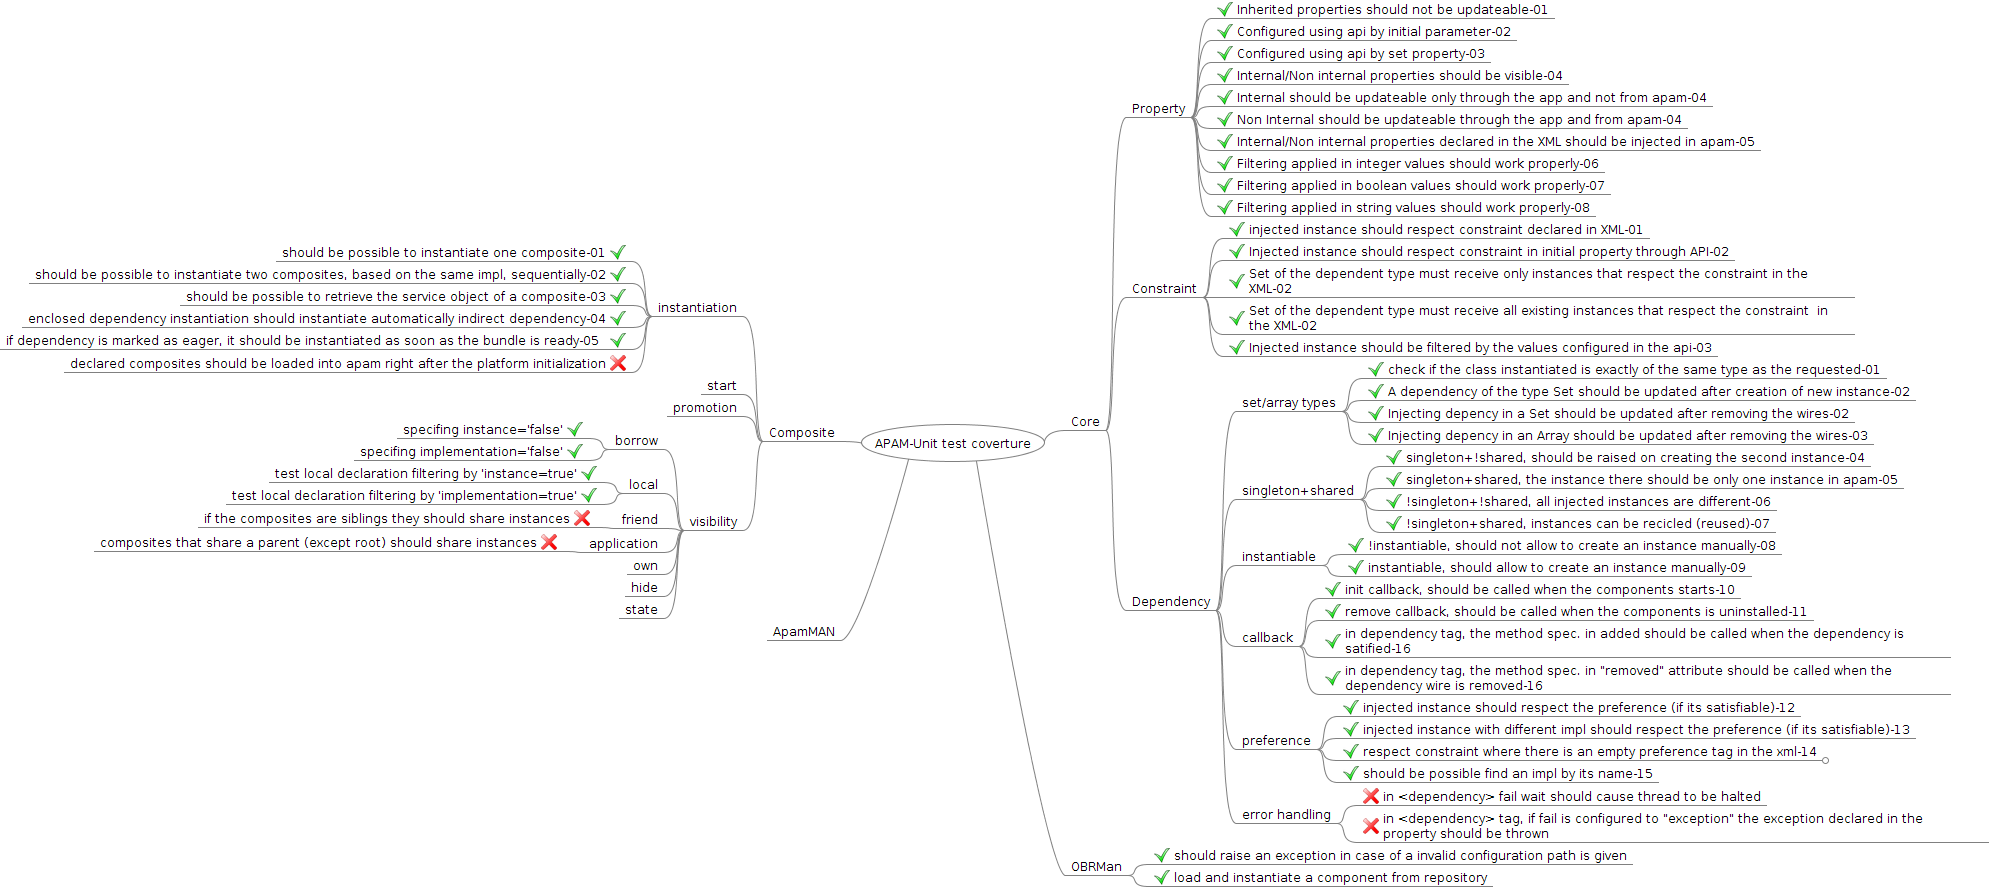
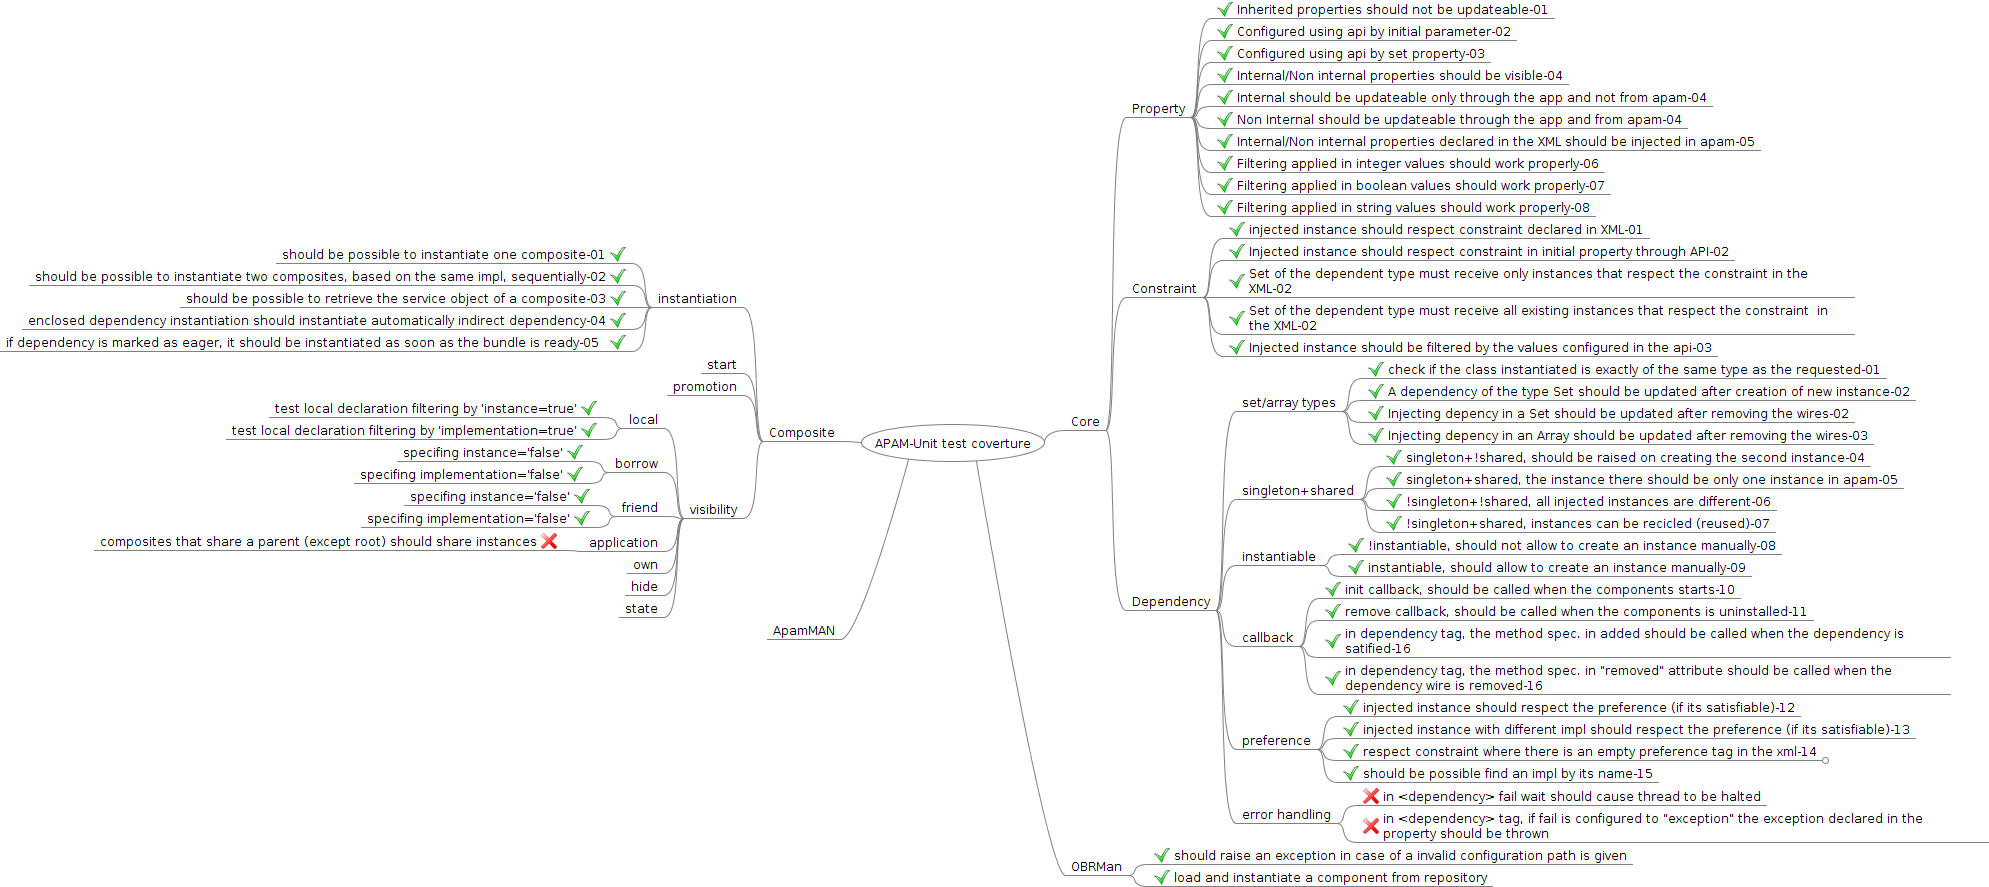
adding test for the friend relation into composite visibility

Changed region(s): [[0.0623, 0.3957, 0.3741, 0.7001], [0.0, 0.274, 0.3741, 0.4262], [0.3741, 0.7001, 0.4364, 0.7306]]

diff --git a/tests/services/pax-test/src/test/java/fr/imag/adele/apam/test/testcases/CompositeTest.java b/tests/services/pax-test/src/test/java/fr/imag/adele/apam/test/testcases/CompositeTest.java
@@ -168,7 +168,7 @@ public class CompositeTest extends ExtensionAbstract {
 				"If an X instance is created into A and this instance is marked as local, this instance cannot be used by other composite. %s";
 		
 		CompositeType cta = (CompositeType) CST.apamResolver.findImplByName(
-				null, "composite-a");
+				null, "composite-a-local-instance");
 
 		CompositeType ctb = (CompositeType) CST.apamResolver.findImplByName(
 				null, "composite-b");
@@ -307,5 +307,89 @@ public class CompositeTest extends ExtensionAbstract {
 		Assert.assertTrue(message,ga.getElement() != gb.getElement());
 
 	}
+
+	@Test
+	public void CompositeContentMngtFriendNothingImplementation() {
+
+		CompositeType ctroot = (CompositeType) CST.apamResolver.findImplByName(
+				null, "composite-a");
+		
+		CompositeType cta = (CompositeType) CST.apamResolver.findImplByName(
+				null, "composite-a-friend-nothing-implementation");
+
+		CompositeType ctb = (CompositeType) CST.apamResolver.findImplByName(
+				null, "composite-b");
+		
+		Implementation ia=CST.apamResolver.findImplByName(null, "group-a");
+		
+		Composite composite_root = (Composite) ctroot.createInstance(null, null);
+		Composite composite_a = (Composite) cta.createInstance(composite_root, null);
+		Composite composite_b = (Composite) ctb.createInstance(composite_root, null);
+
+		Instance instanceFriend1=ia.createInstance(composite_a, null);
+		
+		Instance instanceFriend2=ia.createInstance(composite_b, null);
+
+		S3GroupAImpl ga1 = (S3GroupAImpl) instanceFriend1.getServiceObject();
+
+		S3GroupAImpl ga2 = (S3GroupAImpl) instanceFriend2.getServiceObject();
+
+		ga1.getElement();
+		
+		auxListInstances("bbbbbbbbbbbbbbbbbbbbbbbb");
+		
+		ga2.getElement();
+
+		auxListInstances("aaaaaaaaaaaaaaaaaaaaaaaa");
+		
+		String messageTemplate = "An instance belonging to a composite that do not export any implementation to friends (<friend implementation=\"false\" />), should not be visible (used/injected) by another composite, even if they are friends. %s";
+
+		String message=String.format(messageTemplate, "Although the instance was injeted externally into their friends.");
+		
+		Assert.assertTrue(message,ga1.getElement() != ga2.getElement());
+
+	}
+	
+	@Test
+	public void CompositeContentMngtFriendNothingInstance() {
+
+		CompositeType ctroot = (CompositeType) CST.apamResolver.findImplByName(
+				null, "composite-a");
+		
+		CompositeType cta = (CompositeType) CST.apamResolver.findImplByName(
+				null, "composite-a-friend-nothing-instance");
+
+		CompositeType ctb = (CompositeType) CST.apamResolver.findImplByName(
+				null, "composite-b");
+		
+		Implementation ia=CST.apamResolver.findImplByName(null, "group-a");
+		
+		Composite composite_root = (Composite) ctroot.createInstance(null, null);
+		Composite composite_a = (Composite) cta.createInstance(composite_root, null);
+		Composite composite_b = (Composite) ctb.createInstance(composite_root, null);
+
+		Instance instanceFriend1=ia.createInstance(composite_a, null);
+		
+		Instance instanceFriend2=ia.createInstance(composite_b, null);
+
+		S3GroupAImpl ga1 = (S3GroupAImpl) instanceFriend1.getServiceObject();
+
+		S3GroupAImpl ga2 = (S3GroupAImpl) instanceFriend2.getServiceObject();
+
+		ga1.getElement();
+		
+		auxListInstances("bbbbbbbbbbbbbbbbbbbbbbbb");
+		
+		ga2.getElement();
+
+		auxListInstances("aaaaaaaaaaaaaaaaaaaaaaaa");
+		
+		String messageTemplate = "An instance belonging to a composite that do not export any instance to friends (<friend instance=\"false\" />), should not be visible (used/injected) by another composite, even if they are friends. %s";
+
+		String message=String.format(messageTemplate, "Although the instance was injeted externally into their friends.");
+		
+		Assert.assertTrue(message,ga1.getElement() != ga2.getElement());
+
+	}	
 	
 }

diff --git a/documentations/technical/test-coverture/APAM-UnitTest-Coverture-OnFreeMindApp.mm b/documentations/technical/test-coverture/APAM-UnitTest-Coverture-OnFreeMindApp.mm
@@ -146,21 +146,10 @@
 <node CREATED="1353406252448" ID="ID_868172689" MODIFIED="1353412015763" TEXT="if dependency is marked as eager, it should be instantiated as soon as the bundle is ready-05">
 <icon BUILTIN="button_ok"/>
 </node>
-<node CREATED="1353077111176" ID="ID_1509995545" MODIFIED="1353077140556" TEXT="declared composites should be loaded into apam right after the platform initialization">
-<icon BUILTIN="button_cancel"/>
-</node>
 </node>
 <node CREATED="1353077178936" ID="ID_817521693" MODIFIED="1353077182374" TEXT="start"/>
 <node CREATED="1353491514835" ID="ID_357512040" MODIFIED="1353491518043" TEXT="promotion"/>
 <node CREATED="1353491520963" ID="ID_1528052278" MODIFIED="1353491524764" TEXT="visibility">
-<node CREATED="1353077184248" ID="ID_914230240" MODIFIED="1353077186598" TEXT="borrow">
-<node CREATED="1353490893539" ID="ID_189222500" MODIFIED="1353595956303" TEXT="specifing instance=&apos;false&apos;">
-<icon BUILTIN="button_ok"/>
-</node>
-<node CREATED="1353595942531" ID="ID_447616809" MODIFIED="1353595960215" TEXT="specifing implementation=&apos;false&apos;">
-<icon BUILTIN="button_ok"/>
-</node>
-</node>
 <node CREATED="1353077190840" ID="ID_1475045056" MODIFIED="1353587369160" TEXT="local">
 <node CREATED="1353490737684" ID="ID_31658279" MODIFIED="1353587363629" TEXT="test local declaration filtering by &apos;instance=true&apos;">
 <icon BUILTIN="button_ok"/>
@@ -169,9 +158,20 @@
 <icon BUILTIN="button_ok"/>
 </node>
 </node>
+<node CREATED="1353077184248" ID="ID_914230240" MODIFIED="1353598196963" TEXT="borrow">
+<node CREATED="1353490893539" ID="ID_189222500" MODIFIED="1353595956303" TEXT="specifing instance=&apos;false&apos;">
+<icon BUILTIN="button_ok"/>
+</node>
+<node CREATED="1353595942531" ID="ID_447616809" MODIFIED="1353595960215" TEXT="specifing implementation=&apos;false&apos;">
+<icon BUILTIN="button_ok"/>
+</node>
+</node>
 <node CREATED="1353077196808" ID="ID_1525157524" MODIFIED="1353416497236" TEXT="friend">
-<node CREATED="1353494521059" ID="ID_170356469" MODIFIED="1353494547688" TEXT="if the composites are siblings they should share instances">
-<icon BUILTIN="button_cancel"/>
+<node CREATED="1353494521059" ID="ID_170356469" MODIFIED="1353685847041" TEXT="specifing instance=&apos;false&apos;">
+<icon BUILTIN="button_ok"/>
+</node>
+<node CREATED="1353685833809" ID="ID_160277144" MODIFIED="1353685849664" TEXT="specifing implementation=&apos;false&apos;">
+<icon BUILTIN="button_ok"/>
 </node>
 </node>
 <node CREATED="1353077202712" ID="ID_1802016001" MODIFIED="1353077204742" TEXT="application">

diff --git a/tests/helpers/src/main/java/fr/imag/adele/apam/tests/helpers/ExtensionAbstract.java b/tests/helpers/src/main/java/fr/imag/adele/apam/tests/helpers/ExtensionAbstract.java
@@ -79,7 +79,7 @@ public abstract class ExtensionAbstract {
 	
 	protected void auxListInstances(String prefix) {
 		System.out.println(String.format(
-				"%s------------ Instances -------------", prefix));
+				"%s------------ Instances (Total:%d) -------------", prefix,CST.componentBroker.getInsts().size()));
 		for (Instance i : CST.componentBroker.getInsts()) {
 
 			System.out.println(String.format("%sInstance name %s ( oid: %s ) ",
